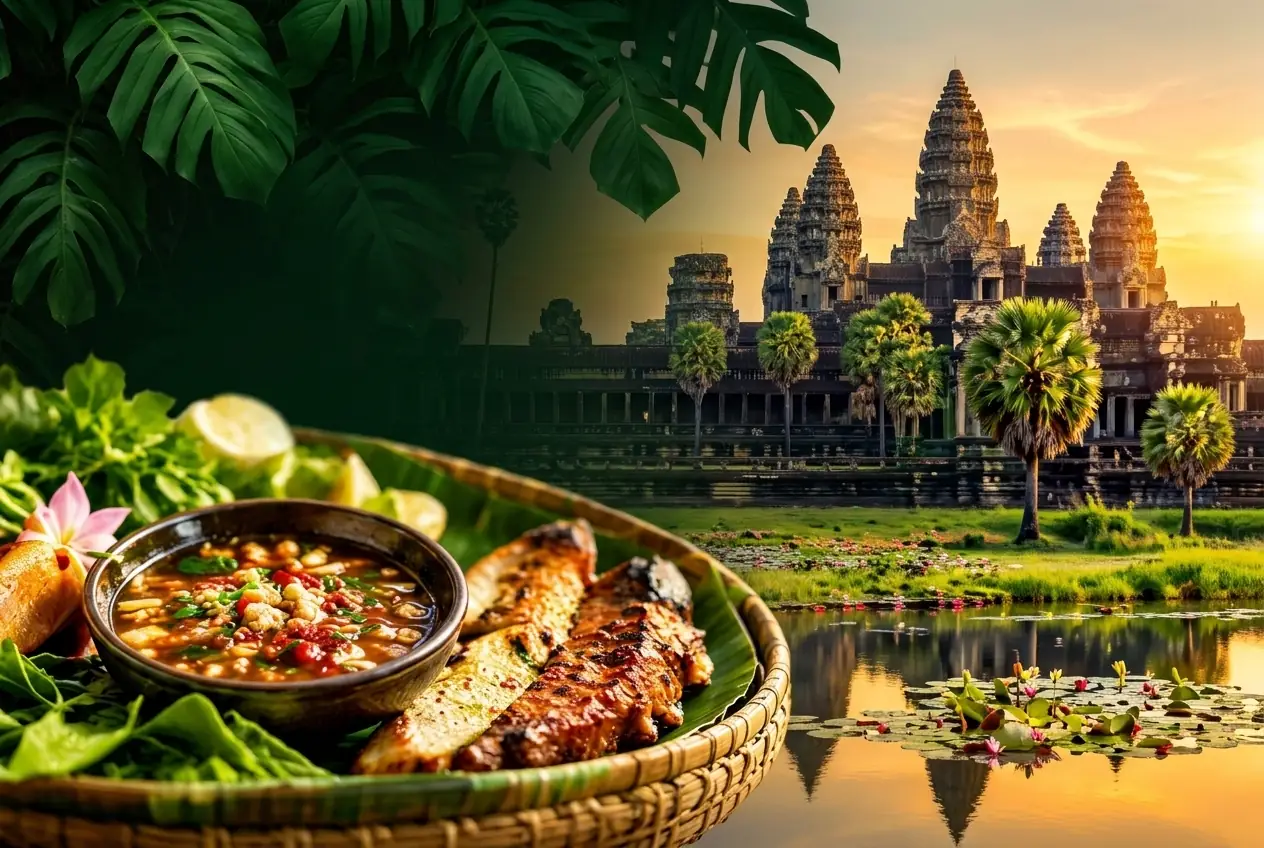
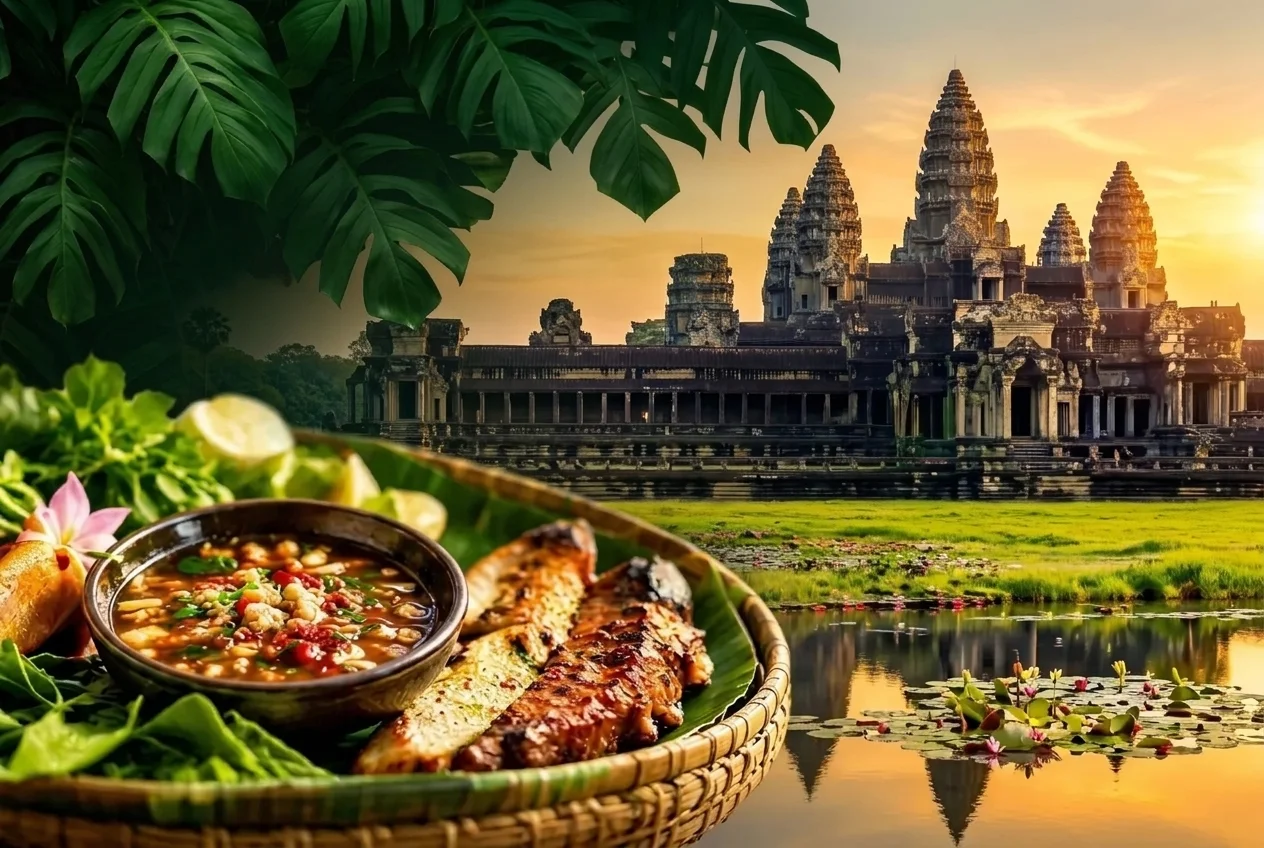
feat(welcome): remove palm trees blocking Angkor Wat and update language selector to ខ្មែរ/EN/中文

diff --git a/src/components/welcome/WelcomeTopBar.tsx b/src/components/welcome/WelcomeTopBar.tsx
@@ -16,7 +16,11 @@ export const WelcomeTopBar: React.FC<Props> = ({ language, onLanguage }) => (
     style={{ paddingTop: 'calc(env(safe-area-inset-top, 0px) + 12px)' }}
   >
     <div className="flex items-center gap-1.5">
-      <div className="inline-flex items-center bg-black/50 backdrop-blur-md rounded-full p-0.5 border border-white/25 shadow-lg" role="group" aria-label="Language">
+      <div
+        className="inline-flex items-center gap-0.5 bg-black/50 backdrop-blur-md rounded-full p-1 border border-white/25 shadow-lg"
+        role="group"
+        aria-label="Language"
+      >
         {LANGUAGE_SWITCH.map((l) => {
           const active = language === l.code;
           return (
@@ -25,7 +29,7 @@ export const WelcomeTopBar: React.FC<Props> = ({ language, onLanguage }) => (
               type="button"
               onClick={() => onLanguage(l.code)}
               aria-pressed={active}
-              className={`min-w-[44px] min-h-[40px] px-2.5 rounded-full text-xs font-extrabold transition-colors motion-reduce:transition-none cursor-pointer ${
+              className={`min-w-[50px] min-h-[38px] px-3 rounded-full text-xs font-extrabold whitespace-nowrap leading-none flex items-center justify-center transition-colors motion-reduce:transition-none cursor-pointer ${
                 active ? 'bg-amber-400 text-slate-950 shadow-sm' : 'text-white/90 hover:text-white'
               }`}
             >

diff --git a/src/components/welcome/welcomeContent.ts b/src/components/welcome/welcomeContent.ts
@@ -58,7 +58,7 @@ export const WELCOME_LABELS = {
 } as const;
 
 export const LANGUAGE_SWITCH: Array<{ code: Language; label: string }> = [
-  { code: 'km', label: 'KM' },
+  { code: 'km', label: 'ខ្មែរ' },
   { code: 'en', label: 'EN' },
-  { code: 'zh', label: '中' },
+  { code: 'zh', label: '中文' },
 ];
